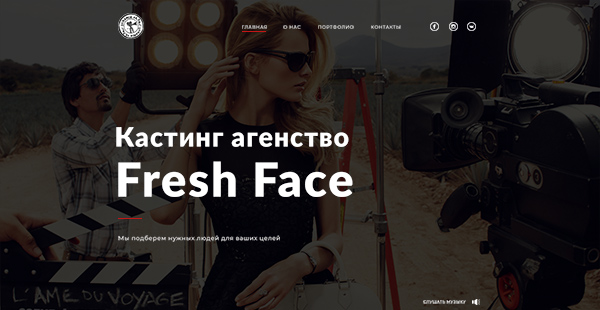
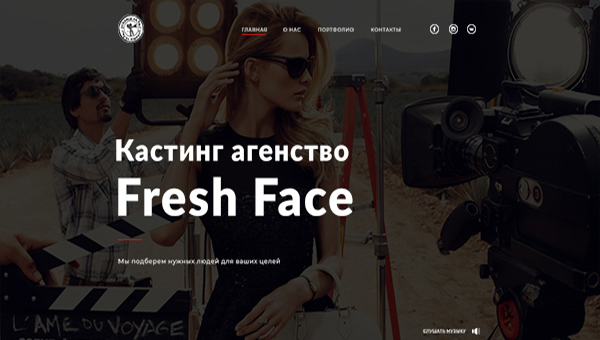
+

diff --git a/index.html b/index.html
@@ -5,66 +5,150 @@
     <meta charset="UTF-8">
     <title>Portfolio</title>
     <link rel="icon" href="img/leaf.png" type="image/x-icon">
-    <link href="https://fonts.googleapis.com/css?family=Special+Elite" rel="stylesheet">
+    <!--<link href="https://fonts.googleapis.com/css?family=Special+Elite" rel="stylesheet">-->
+    <link href="https://fonts.googleapis.com/css?family=Poppins" rel="stylesheet">
     <link rel="stylesheet" href="revealator/fm.revealator.jquery.min.css">
     <link rel="stylesheet" href="css/main.css">
 
 </head>
 <body>
     <header>
-        <ul>
+        <ul class="menu_items">
             <li><a href="#portfolio"> Portfolio</a></li>
-            <li>Contacts</li>
+            <li><a href="#contacts">Contacts</a></li>
         </ul>
-        <div class="name revealator-slideleft revealator-delay5 revealator-once ">
-             <div class="green"></div>
-            <h3>Hello guys, my name is Yana Orlova and I'm a junior Front End developer</h3>
+        <div class="name ">
+            <h3>Hello guys,<br> my name is Yana Orlova <br> and I'm a junior Front End developer</h3>
         </div>
     </header>
     <section id="portfolio" class="portfolio">
         <div class="container">
             <div class="row">
-                <div class="banner left">
+                <div class="banner ">
                     <img src="img/Вдох.jpg" />
                     <div class="hover">
                         <a href="https://ianaorlova.github.io/diplom/">VIEW</a>
                     </div>
                 </div>
-                <div class="banner right">
+                <div class="banner ">
                     <img src="img/Freshy.jpg" />
                     <div class="hover">
                     <a href=" https://ianaorlova.github.io/project/">VIEW</a>
                     </div>
                 </div>
-            </div>
-            <div class="row">
-                <div class="banner left">
+                <div class="banner">
                     <img src="img/Tork.jpg" />
                     <div class="hover">
                         <a href="https://ianaorlova.github.io/project2/">VIEW</a>
                     </div>
                 </div>
-                <div class="banner right">
+            </div>
+            <div class="row">
+                <div class="banner">
                     <img src="img/Кастинг.jpg" />
                     <div class="hover">
                         <a href=" https://ianaorlova.github.io/Bokhanov/">VIEW</a>
                     </div>
                 </div>
-            </div>
-            <div class="row">
-                <div class="banner left">
+                <div class="banner">
                     <img src="img/Fjord.jpg" />
                     <div class="hover">
                         <a href="https://ianaorlova.github.io/test_work/">VIEW</a>
                     </div>
                 </div>
-                <div class="banner right">
-
+                <div class="banner">
+                    <img src="img/Bino.png" />
+                    <div class="hover">
+                    </div>
                 </div>
             </div>
         </div>
     </section>
+    <footer id="contacts">
+        <ul class="contacts">
+            <li><a href="https://www.facebook.com/profile.php?id=100001679675370"><svg version="1.1" id="Слой_1" xmlns="http://www.w3.org/2000/svg" xmlns:xlink="http://www.w3.org/1999/xlink" x="0px" y="0px"
+	 viewBox="0 0 40 40" style="enable-background:new 0 0 40 40;" width="25px" height="25px" xml:space="preserve">
+<style type="text/css">
+	.st1{fill:white;}
+</style>
+<g id="iconmonstr-facebook-1.psd">
+	<defs>
+		<rect id="SVGID_1_" x="0" width="40" height="40"/>
+	</defs>
+	<clipPath id="SVGID_2_">
+		<use xlink:href="#SVGID_1_"  style="overflow:visible;"/>
+	</clipPath>
+	<g id="iconmonstr" class="st0">
+		<g id="facebook-1">
+			<g>
+				<path class="st1" d="M25.2,8.3c1.2,0,4.8,0,4.8,0V0c0,0-5.4,0-6.3,0c-6,0-8.7,2.6-8.7,7.7c0,4.4,0,5.6,0,5.6h-5V20h5v20h8.3V20
+					h6.1l0.6-6.7h-6.7c0,0,0-1.5,0-2.8C23.3,9,23.7,8.3,25.2,8.3z"/>
+			</g>
+		</g>
+	</g>
+</g>
+</svg></a> </li>
+            <li><a href="https://www.instagram.com/kirichenkoyani/"><svg version="1.1" id="Слой_1" xmlns="http://www.w3.org/2000/svg" xmlns:xlink="http://www.w3.org/1999/xlink" x="0px" y="0px"
+	 viewBox="0 0 40 40" style="enable-background:new 0 0 40 40;" width="25px" height="25px" xml:space="preserve">
+<style type="text/css">
+	.st2{fill:white;}
+</style>
+<g id="iconmonstr-instagram-6.psd">
+	<defs>
+		<rect id="SVGID_1_" width="40" height="40"/>
+	</defs>
+	<clipPath id="SVGID_2_">
+		<use xlink:href="#SVGID_1_"  style="overflow:visible;"/>
+	</clipPath>
+	<g id="iconmonstr" class="st0">
+		<g id="instagram-6">
+			<g>
+				<path class="st2" d="M35.4,0H4.6C2.1,0,0,2.1,0,4.6v30.8C0,37.9,2.1,40,4.6,40h30.8c2.5,0,4.6-2.1,4.6-4.6V4.6
+					C40,2.1,37.9,0,35.4,0z M20,12.3c4.2,0,7.7,3.4,7.7,7.7c0,4.2-3.4,7.7-7.7,7.7s-7.7-3.4-7.7-7.7C12.3,15.8,15.8,12.3,20,12.3z
+					 M35,33.5c0,0.8-0.7,1.5-1.5,1.5H6.5C5.7,35,5,34.3,5,33.5V16.7h3.2c-0.1,0.5-0.3,1.1-0.3,1.6c-0.1,0.6-0.1,1.1-0.1,1.7
+					c0,6.8,5.5,12.3,12.3,12.3S32.3,26.8,32.3,20c0-0.6-0.1-1.2-0.1-1.7c-0.1-0.6-0.2-1.1-0.3-1.6H35V33.5z M35,10.2
+					c0,0.8-0.7,1.5-1.5,1.5h-3.6c-0.9,0-1.5-0.7-1.5-1.5V6.5C28.3,5.7,29,5,29.8,5h3.6C34.3,5,35,5.7,35,6.5V10.2z"/>
+			</g>
+		</g>
+	</g>
+</g>
+</svg></a> </li>
+            <li><a href="mailto:orlovayani@gmail.com"><svg version="1.1" id="Слой_1" xmlns="http://www.w3.org/2000/svg" xmlns:xlink="http://www.w3.org/1999/xlink" x="0px" y="0px"
+	 viewBox="0 0 40 40" style="enable-background:new 0 0 40 40;" width="25px" height="25px" xml:space="preserve">
+<style type="text/css">
+	.st3{fill:white;}
+</style>
+<g id="arroba-sign.psd">
+	<defs>
+		<rect id="SVGID_1_" y="0" width="39.7" height="40"/>
+	</defs>
+	<clipPath id="SVGID_2_">
+		<use xlink:href="#SVGID_1_"  style="overflow:visible;"/>
+	</clipPath>
+	<g id="Forma_1" class="st3">
+		<g>
+			<path class="st0" d="M38.1,9.8c-1.1-2.2-2.5-4-4.3-5.4c-1.8-1.5-3.8-2.5-6.1-3.3C25.3,0.4,23,0,20.5,0c-2.8,0-5.5,0.5-8,1.5
+				C10.1,2.5,7.9,4,6,5.7c-1.9,1.8-3.4,3.9-4.4,6.3S0,17.2,0,20c0,2.9,0.5,5.6,1.5,8c1,2.4,2.4,4.6,4.2,6.3c1.8,1.7,4,3.2,6.5,4.1
+				c2.5,1,5.3,1.5,8.4,1.5c3.4,0,6.5-0.5,9.3-1.6c2.6-0.9,0.4-5.7-1.5-4.9c-2.1,0.9-4.6,1.3-7.5,1.3c-2.3,0-4.3-0.4-6.1-1
+				c-1.8-0.7-3.4-1.6-4.7-2.9c-1.3-1.3-2.3-2.8-3-4.6c-0.7-1.8-1.1-3.9-1.1-6.1c0-2.1,0.4-4.2,1.1-6c0.7-1.8,1.7-3.4,3-4.7
+				c1.3-1.3,2.8-2.4,4.6-3.1s3.8-1.1,6-1.1c2,0,3.9,0.3,5.6,0.8c1.6,0.5,3.1,1.3,4.3,2.4c1.2,1.1,2.1,2.4,2.8,3.9s1,3.4,1,5.4
+				c0,1.2-0.1,2.3-0.4,3.4c-0.3,1-0.6,1.9-1,2.6c-0.4,0.7-0.9,1.2-1.5,1.6c-0.7,0.5-1.7,0.7-2.5,0.5c-1-0.3-0.8-1.7-0.7-2.5
+				c0.1-1.1,0.4-2.1,0.6-3.2c0.4-1.7,0.7-3.4,1.1-5.2c0.2-0.9,0.4-1.9,0.6-2.8c0.3-1.2-0.6-2.4-1.9-2.4h-1.4c-0.9,0-1.6,0.6-1.9,1.4
+				c-0.1,0.4-0.2,0.7-0.2,0.7c-0.7-2.2-3.3-2.8-5.4-2.8c-2.7,0-5.2,1.4-7,3.4c-0.2,0.2-0.4,0.4-0.5,0.6c-0.9,1.1-1.6,2.4-2.1,3.8
+				c-0.5,1.5-0.8,3-0.8,4.5c0,1.3,0.2,2.6,0.5,3.7c0.4,1.2,0.9,2.2,1.6,3c0.7,0.8,1.6,1.5,2.7,2c1.1,0.5,2.3,0.7,3.6,0.7
+				c1,0,1.9-0.2,2.7-0.5c0.8-0.3,1.5-0.6,2.1-1.1c0.5-0.3,0.9-0.7,1.3-1.1c0.2,0.4,0.5,0.8,0.8,1.1c0.9,1,2.3,1.5,4.1,1.5
+				c1.5,0,2.9-0.3,4.2-0.9s2.5-1.5,3.5-2.6c1-1.2,1.8-2.6,2.4-4.3c0.6-1.7,0.9-3.6,0.9-5.7C39.7,14.6,39.1,12,38.1,9.8z M23.2,20.9
+				c-0.2,0.9-0.5,1.7-1,2.5c-0.5,0.7-1,1.4-1.7,1.8c-0.6,0.5-1.4,0.7-2.4,0.7c-0.6,0-1.1-0.1-1.5-0.4c-0.4-0.3-0.7-0.6-0.9-1
+				c-0.3-0.5-0.4-0.9-0.5-1.4c-0.1-0.5-0.2-1-0.2-1.4c0-0.9,0.1-1.8,0.4-2.7c0.3-0.9,0.6-1.7,1.1-2.4c0.5-0.7,1-1.3,1.7-1.7
+				c0.6-0.4,1.3-0.6,2.1-0.6c0.6,0,1.2,0.1,1.6,0.3s0.7,0.5,0.9,0.9c0.3,0.4,0.4,0.8,0.5,1.3c0.1,0.5,0.2,1.1,0.2,1.7
+				C23.5,19.1,23.4,20,23.2,20.9z"/>
+		</g>
+	</g>
+</g>
+</svg></a> </li>
+        </ul>
 
+    </footer>
 
 
 

diff --git a/css/main.css b/css/main.css
@@ -1,79 +1,73 @@
 
 *{
     margin: 0;
-    font-family: 'Special Elite', cursive;
+    font-family: 'Poppins', sans-serif;
 }
 
 img{
     display: block;
     width: 100%;
+    height: 280px;
 }
 
 a{
     text-decoration: none;
     color: #f5fff6;
 }
-ul{
+
+body{
+    background: #f5fff6;
+}
+
+.menu_items{
     padding-top: 25px;
     display: flex;
     justify-content: flex-end;
 
 
 }
+
 li{
     list-style: none;
-    color:#f5fff6 ;
+    display: inline-block;
+    color:white ;
     font-size: 24px;
     margin-left: 25px;
     margin-right: 15px;
-    padding: 20px;
-    background:rgba(10, 71, 17, 0.8);
+    padding: 10px 20px;
+    border: 3px solid white;
 
 }
 
 header{
-    background: url("../img/IMG_8408.jpg") no-repeat center;
+    background: url("../img/test.png") no-repeat center;
     background-size: cover;
-    height: 100vh;
     position: relative;
+    margin-bottom: 80px;
+    padding-bottom: 180px;
 }
 
 .name{
-    max-width: 980px;
-    background:rgba(48, 77, 46, 0.8);
+    max-width: 890px;
     text-align: center;
-    margin: 0 auto;
-    position: absolute;
-    left: 0;
-    right: 0;
-    top: 30%;
-    transform: translateY(30%);
-    z-index: 1;
+    margin: 200px auto;
+    border: 5px solid white;
 }
-.green{
-    position: absolute;
-    margin: 0 auto;
-    left: -68px;
-    right: 0;
-    bottom: -13%;
-    max-width: 980px;
-    height: 210px;
-    background:rgba(10, 71, 17, 0.8);
-}
+
 
 .portfolio{
     background: #f5fff6;
+    padding-bottom: 40px;
 }
 
 .row{
-    padding-top: 100px;
-
+    padding-bottom: 40px;
     display: flex;
     justify-content: space-between;
 }
 
 .banner{
-    width: 600px;
+    width: 32%;
     position: relative;
 }
 
@@ -84,43 +78,55 @@ header{
     bottom: 0;
     left: 0;
     right: 0;
-    background:rgba(48, 77, 46, 0.8);
+    background:rgba(48, 77, 46, 0.9);
     transition: 0.7s;
 }
 
 
 .portfolio a{
     position: absolute;
-    background: darkgreen;
-    color:#f5fff6;
-    border: none;
+    color:white;
+    border: 3px solid white;
     padding: 10px 24px;
-    left: 37%;
-    transform: translateX(37%);
-    top: 50%;
+    left: 34%;
+    transform: translateX(34%);
+    top: 45%;
 }
 
 .banner:hover .hover{
     cursor: pointer;
     opacity: 1;
-
 }
 
 .container{
-    max-width: 1400px;
+    max-width: 1600px;
     margin: 0 auto;
 }
 
 
 h3{
     position: relative;
-    font-family: 'Special Elite', cursive;
-    color:  #f5fff6;
+    color:  white;
     font-size: 40px;
     letter-spacing: 6px;
     line-height: 50px;
     padding: 30px;
     z-index: 2;
+}
+
+footer{
+    background:#10220B;
+    text-align: center;
+    padding: 30px 0 20px;
+}
+
+.contacts{
+    padding-left: 0;
+}
+
+.contacts li{
+    padding: 0 20px;
+    border: none;
 }
 
 @media all and (max-width: 1200px){
